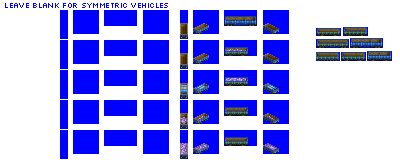
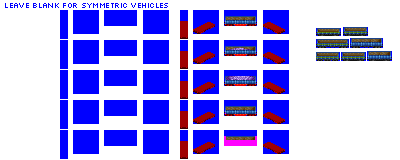
Change: WIP on gen 5C open car, also change approach to CC chassis for other big gen 5C cars

diff --git a/src/vehicles/livestock_cars.py b/src/vehicles/livestock_cars.py
@@ -56,7 +56,7 @@ def main():
 
     consist.add_unit(type=FreightCar,
                      vehicle_length=8,
-                     chassis='4_axle_cc_filled_32px')
+                     chassis='4_axle_2cc_filled_32px')
 
 
     consist = LivestockCarConsist(roster='pony',
@@ -66,4 +66,4 @@ def main():
 
     consist.add_unit(type=FreightCar,
                      vehicle_length=8,
-                     chassis='4_axle_cc_filled_32px')
+                     chassis='4_axle_2cc_filled_32px')

diff --git a/src/vehicles/open_cars.py b/src/vehicles/open_cars.py
@@ -102,8 +102,9 @@ def main():
                              subtype='C')
 
     consist.add_unit(type=FreightCar,
-                     cargo_length=3,
-                     vehicle_length=8)
+                     cargo_length=8,
+                     vehicle_length=8,
+                     chassis='4_axle_1cc_filled_32px')
 
 
     # no gen 6 open cars, cap to gen 5 in Pony

diff --git a/src/vehicles/fruit_veg_cars.py b/src/vehicles/fruit_veg_cars.py
@@ -65,7 +65,7 @@ def main():
 
     consist.add_unit(type=FreightCar,
                      vehicle_length=8,
-                     chassis='4_axle_cc_filled_32px')
+                     chassis='4_axle_2cc_filled_32px')
 
 
     # no gen 6 fruit & veg cars, cap to gen 5 in Pony

diff --git a/src/vehicles/box_cars.py b/src/vehicles/box_cars.py
@@ -91,7 +91,7 @@ def main():
 
     consist.add_unit(type=FreightCar,
                      vehicle_length=8,
-                     chassis='4_axle_cc_filled_32px')
+                     chassis='4_axle_1cc_filled_32px')
 
 
     # no gen 6 box cars, cap to gen 5 in Pony

diff --git a/src/vehicles/reefer_cars.py b/src/vehicles/reefer_cars.py
@@ -58,4 +58,4 @@ def main():
 
     consist.add_unit(type=FreightCar,
                      vehicle_length=8,
-                     chassis='4_axle_cc_filled_32px')
+                     chassis='4_axle_1cc_filled_32px')
